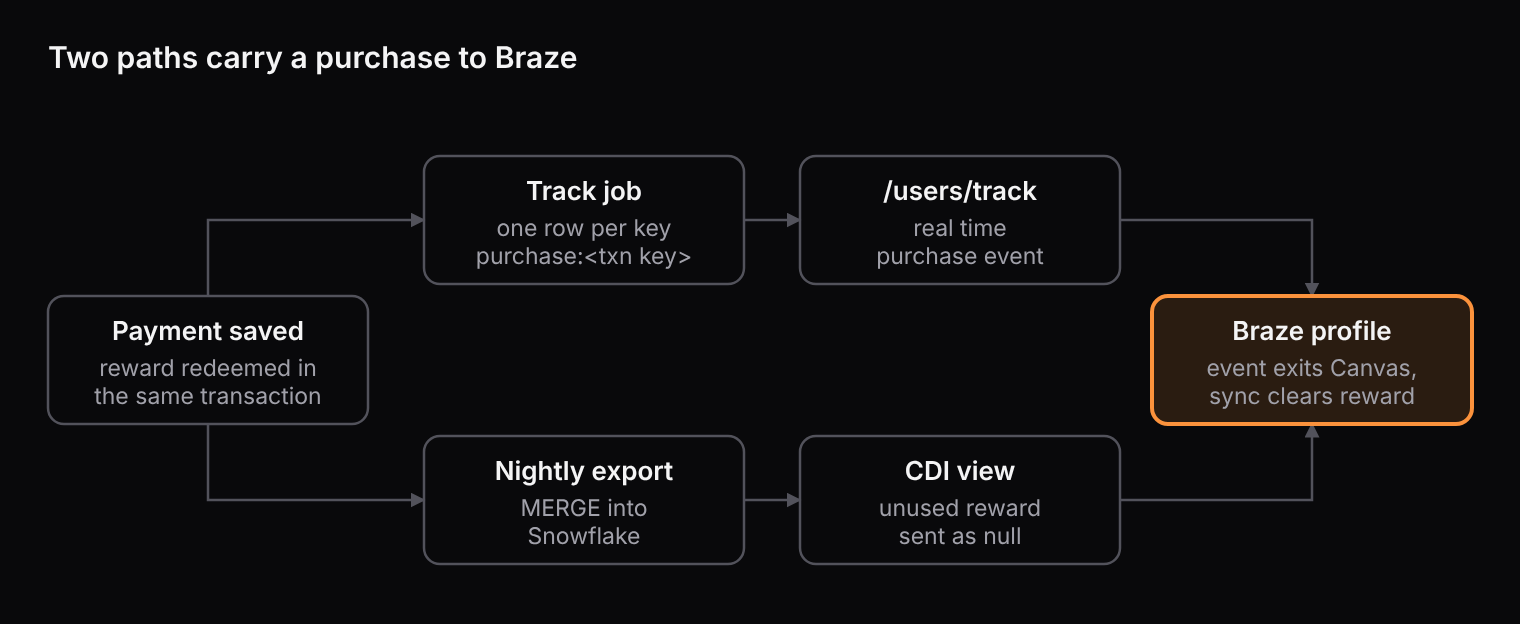
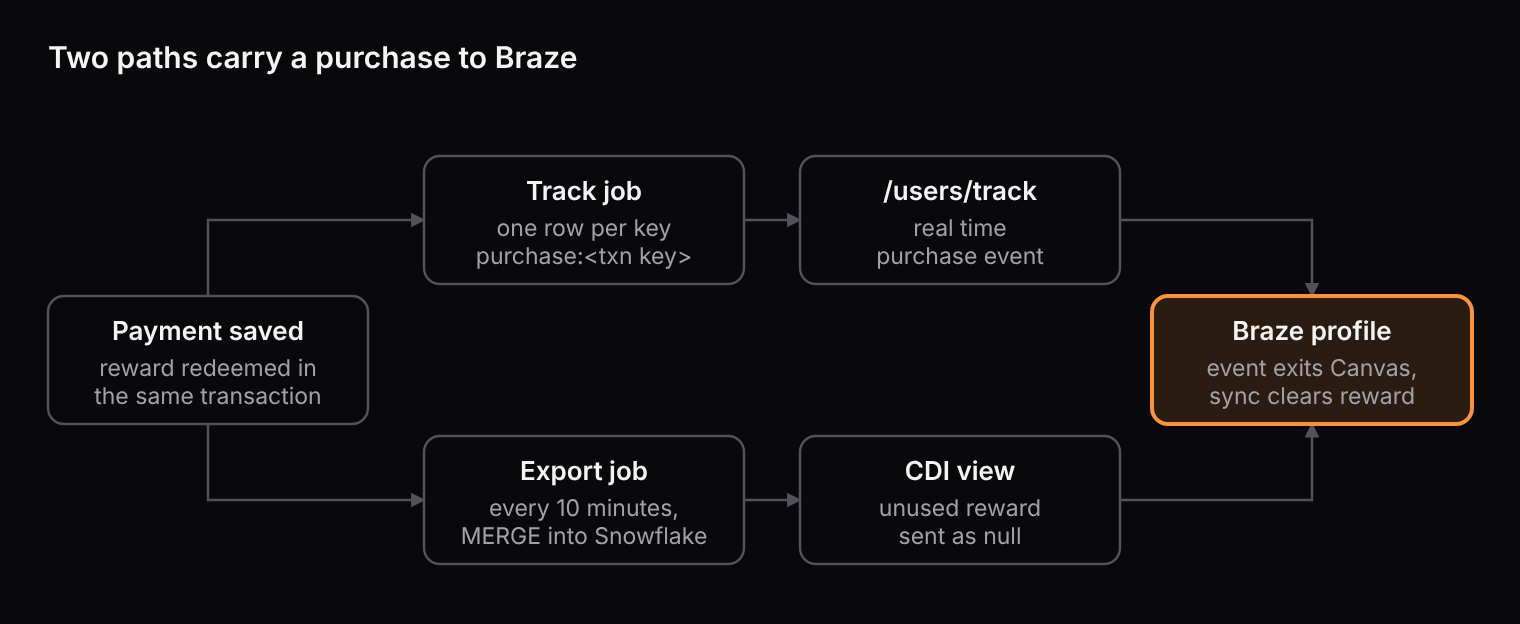
fix(blog): correct the export schedule and where the SQL checks run
The warehouse export runs every 10 minutes, not nightly, and the SQL
checks run by hand in Snowflake rather than in CI.

Changed region(s): [[0.3092, 0.7308, 0.4638, 0.883]]

diff --git a/scripts/seed-inkind-first-reward-post.ts b/scripts/seed-inkind-first-reward-post.ts
@@ -277,15 +277,15 @@ function buildBody(img: { journey: ImageRef; twoPaths: ImageRef }) {
             "15 to 20 seconds, muted, cut from walkthrough 3.",
         ),
         p(
-            "The second path is the nightly sync. A rake task exports the Rails tables and MERGEs them into a `RAILS_DEMO` schema in Snowflake, which the same CDI view reads. The **CDI preview** page at `/warehouse/cdi_preview` shows what Braze would receive for each user, including the nulls that clear a spent reward.",
+            "The second path is the warehouse. Every 10 minutes, a background job exports new and changed rows and MERGEs them into a `RAILS_DEMO` schema in Snowflake, which the same CDI view reads. The **CDI preview** page at `/warehouse/cdi_preview` shows what Braze would receive for each user, including the nulls that clear a spent reward.",
         ),
         image(
             img.twoPaths,
-            "Diagram of two paths from a saved payment to the Braze profile: in real time, a track job sends a purchase event to /users/track; nightly, an export MERGEs into Snowflake and the CDI view sends the unused reward as null.",
+            "Diagram of two paths from a saved payment to the Braze profile: in real time, a track job sends a purchase event to /users/track; every 10 minutes, an export MERGEs into Snowflake and the CDI view sends the unused reward as null.",
             "The event exits the Canvas. The sync clears the reward.",
         ),
         p(
-            "So there are two ways the fact reaches Braze: in real time through the event, and nightly through the warehouse. If the event never arrives, the next sync still clears the reward, and the message's own check stops the send because there's no unused reward left to promote.",
+            "So there are two ways the fact reaches Braze: in real time through the event, and every few minutes through the warehouse. If the event never arrives, the next sync still clears the reward, and the message's own check stops the send because there's no unused reward left to promote.",
         ),
         youtube(
             "ZBk5Az8jVrs",
@@ -308,7 +308,7 @@ function buildBody(img: { journey: ImageRef; twoPaths: ImageRef }) {
         li("number", "**The agent drafts** on a branch and opens a pull request."),
         li(
             "number",
-            "**CI decides.** The 180 Liquid tests, the 137 Rails tests and the 11 SQL checks all run. If one fails, the PR doesn't merge, no matter how good the diff looks.",
+            "**CI decides.** The 180 Liquid tests and the 137 Rails tests run on every pull request. If one fails, the PR doesn't merge, no matter how good the diff looks. The 11 SQL checks need a Snowflake account, so I run those by hand in a worksheet.",
         ),
         li(
             "number",
